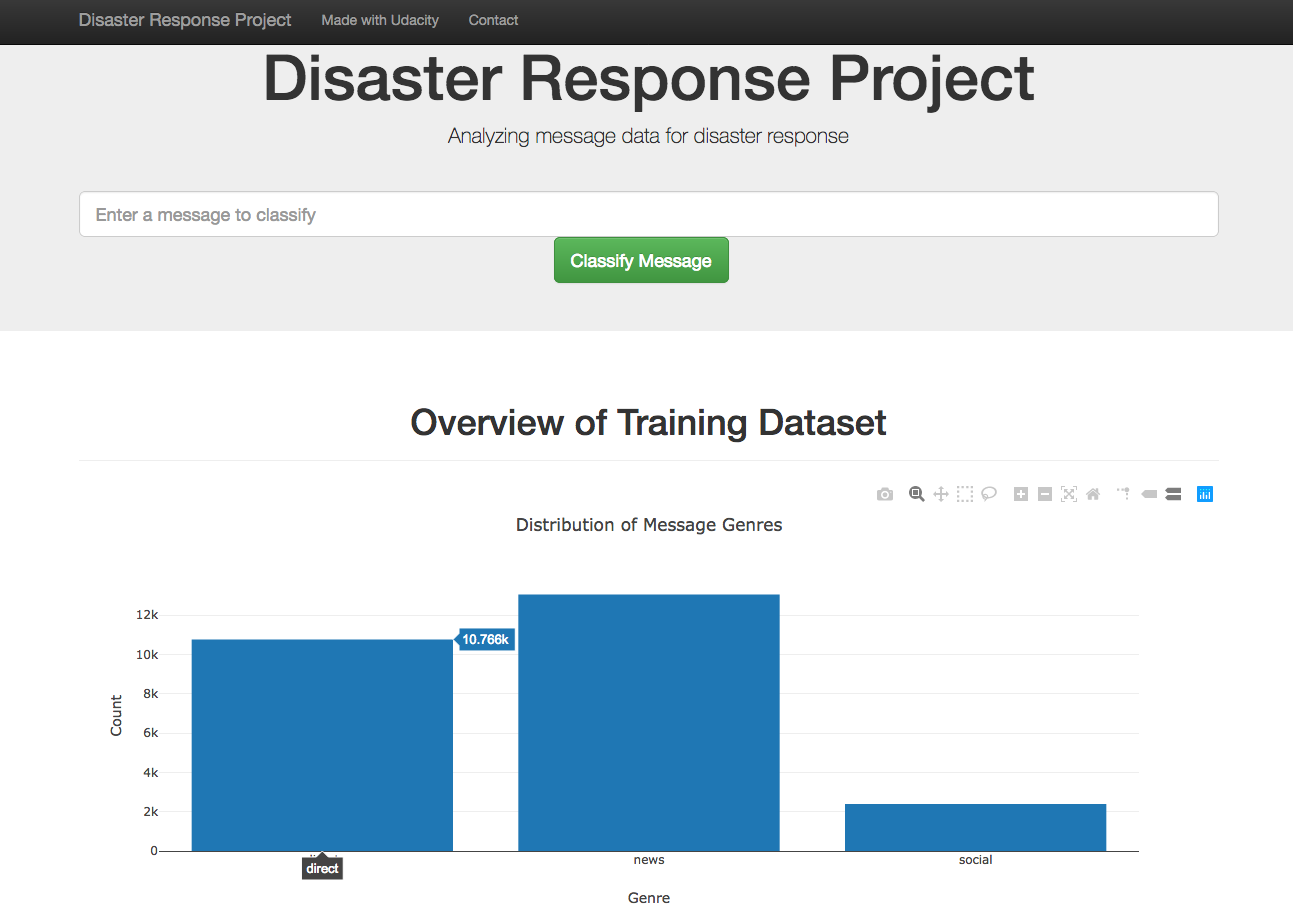
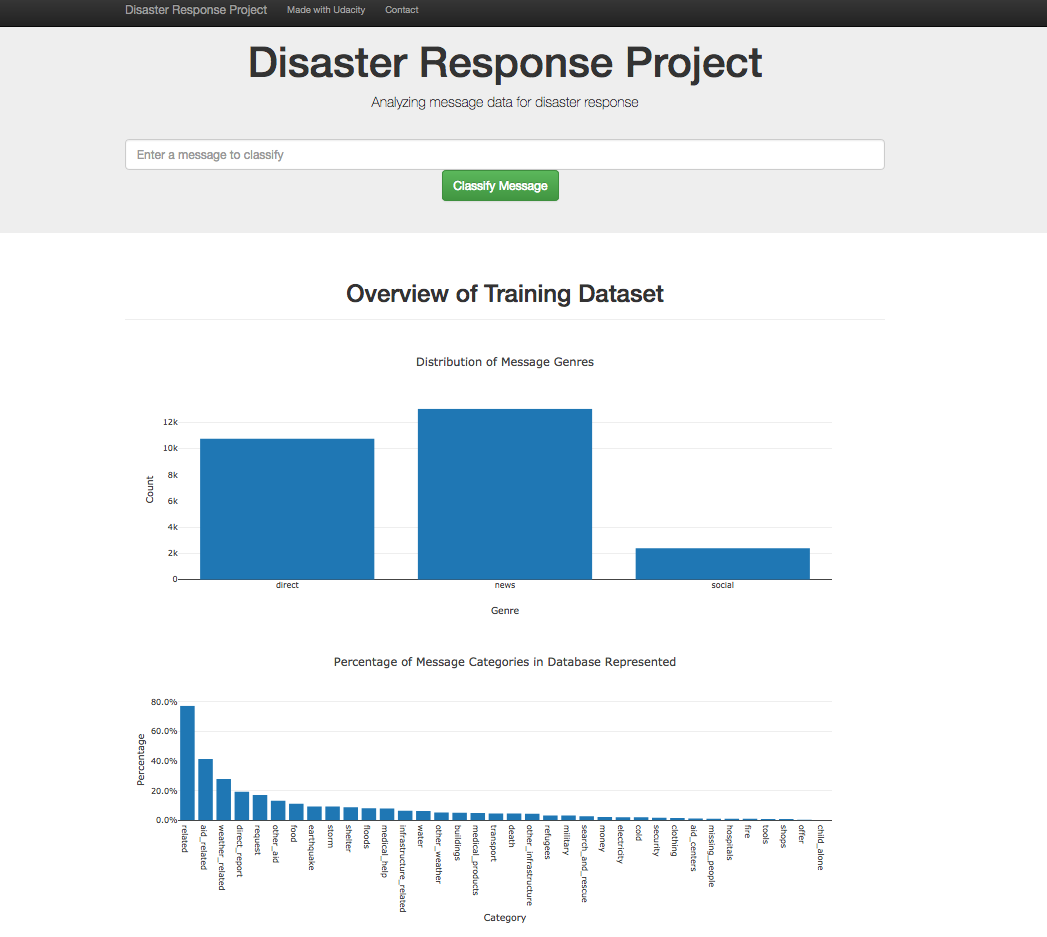
Added two new visuals to the app, new imgs for the README.md

diff --git a/app/templates/go.html b/app/templates/go.html
@@ -1,24 +1,56 @@
 {% extends "master.html" %}
 {% block title %}Results{% endblock %}
+{% block head %}
+  {{ super() }}
+{% endblock %}
+
 
 {% block message %}
     <hr />
     <h4 class="text-center">MESSAGE</h4>
     <p class="text-center"><i>{{query}}</i></p>
+    
 {% endblock %}
 
 {% block content %}
-    <h1 class="text-center">Result</h1>
-        <ul class="list-group">
-            {% for category, classification in classification_result.items() %}
-                {% if classification == 1 %}
-                    <li class="list-group-item list-group-item-success text-center">{{category.replace('_', ' ').title()}}</li>
-                {% else %}
-                    <li class="list-group-item list-group-item-dark text-center">{{category.replace('_', ' ').title()}}</li>
-                {% endif %}
-            {% endfor %}
 
-        </div>
-    </div>
+	<table class="table table-striped">
+	  <tbody>
+	    <tr>
+	      <td width="25%">
+		<ul class="list-group">
+		  {% for category, classification in classification_result.items() %}
+                     {% if classification == 1 %}
+                        <li class="list-group-item list-group-item-success text-center">{{category.replace('_', ' ').title()}}</li>
+                     {% else %}
+
+                        <li class="list-group-item list-group-item-dark text-center">{{category.replace('_', ' ').title()}}</li>
+                     {% endif %}
+                  {% endfor %}
+		</ul>
+	      </td>
+	      <td width="75%"> 
+		   {% for id in ids %}
+		      <div id="{{id}}"></div>
+		   {% endfor %}
+	      </td>
+	    </tr>
+	  </tbody>
+	</table>
+
 
 {% endblock %}
+
+
+
+<script type="text/javascript">
+    const graphs = {{graphJSON | safe}};
+    const ids = {{ids | safe}};
+    for(let i in graphs) {
+        print(i);
+        print(ids[i]);
+        Plotly.plot(ids[i], graphs[i].data, graphs[i].layout);
+    }
+</script>
+
+

diff --git a/app/templates/master.html b/app/templates/master.html
@@ -1,6 +1,7 @@
 <!doctype html>
 <html lang="en">
 <head>
+{% block head %}
     <meta charset="utf-8">
     <meta http-equiv="X-UA-Compatible" content="IE=edge">
     <meta name="viewport" content="width=device-width, initial-scale=1">
@@ -11,6 +12,7 @@
     <link rel="stylesheet" href="https://maxcdn.bootstrapcdn.com/bootstrap/3.3.7/css/bootstrap-theme.min.css" integrity="sha384-rHyoN1iRsVXV4nD0JutlnGaslCJuC7uwjduW9SVrLvRYooPp2bWYgmgJQIXwl/Sp" crossorigin="anonymous">
     <script src="https://ajax.googleapis.com/ajax/libs/jquery/3.3.1/jquery.min.js"></script>
     <script src="https://cdn.plot.ly/plotly-latest.min.js"></script>
+{% endblock %}
 </head>
 
 <body>
@@ -49,6 +51,7 @@
 
         {% block message %}
         {% endblock %}
+
     </div>
 </div>
 
@@ -58,11 +61,14 @@
             <h1 class="text-center">Overview of Training Dataset</h1>
         </div>
     {% endblock %}
-
+    
     {% for id in ids %}
         <div id="{{id}}"></div>
     {% endfor %}
 </div>
+
+
+
 
 <script type="text/javascript">
     const graphs = {{graphJSON | safe}};

diff --git a/app/run.py b/app/run.py
@@ -1,5 +1,6 @@
 import json
 import plotly
+import numpy as np
 import pandas as pd
 import re
 import nltk
@@ -91,6 +92,13 @@ def index():
     genre_counts = df.groupby('genre').count()['message']
     genre_names = list(genre_counts.index)
     
+    ## Data for second visual
+    ## Histogram of categories represented in the DisasterDatabase.db
+    s = np.mean(df.iloc[:, 4:]).sort_values(ascending = False)
+    category_percentage     = list(s) ## percent of category in table
+    category_names          = list(s.keys())
+               
+    
     # create visuals
     # TODO: Below is an example - modify to create your own visuals
     graphs = [
@@ -111,6 +119,31 @@ def index():
                     'title': "Genre"
                 }
             }
+        },
+
+        {
+         
+            'data': [
+                Bar(
+                    x=category_names,
+                    y=category_percentage
+                )
+            ],
+
+            'layout': {
+                'title': 'Percentage of Message Categories in Database Represented',
+                'yaxis': {
+                    'title': "Percentage",
+                    'tickformat':".1%"
+                },
+                'xaxis': {
+                    'title': "Category",
+                    'automargin': True
+                },
+                
+            }
+
+
         }
     ]
     
@@ -128,15 +161,70 @@ def go():
     # save user input in query
     query = request.args.get('query', '') 
 
+    
     # use model to predict classification for query
-    classification_labels = model.predict([query])[0]
+    classification_labels  = model.predict([query])[0]    
     classification_results = dict(zip(df.columns[4:], classification_labels))
 
+    classification_probs   = model.predict_proba([query])
+    
+    classification_probs_results = {}
+    
+    
+    for i in range(0,len(classification_labels)):
+        if (classification_labels[i]==1.):
+            classification_probs_results.update({df.columns[4+i]:classification_probs[i][0][1]})
+    
+    
+    
+    ## Sort dictionary 'classification_probs_results' by values
+    classification_probs_results = {k: v for k, v in sorted(classification_probs_results.items(), key=lambda item: item[1])}
+    
+    classification_names = list(classification_probs_results.keys())
+    classification_probs = list(classification_probs_results.values())
+   
+    
+    ## Build plot of probabilities for categories that were found to be significant
+    ## We plot the probability of getting 1.0 for the category (as opposed to 0.0)
+    ## for significant categories. These are conventionally greater than about 60%
+    graphs = [
+        {
+            'data': [
+                Bar(
+                    x=classification_probs,
+                    y=classification_names,
+                    orientation='h'
+                )
+            ],
+
+            'layout': {
+                'title': 'Classification Probabilities',
+                'yaxis': {
+                    'title': "Category"
+                },
+                'xaxis': {
+                    'title': "Probability",
+                    'tickformat':".1%",
+                    'automargin': True
+                }
+                
+            }
+        }
+    ]
+
+
+    # encode plotly graphs in JSON
+    ids = ["graph-{}".format(i) for i, _ in enumerate(graphs)]
+    graphJSON = json.dumps(graphs, cls=plotly.utils.PlotlyJSONEncoder)
+    
+    
     # This will render the go.html Please see that file. 
     return render_template(
         'go.html',
         query=query,
-        classification_result=classification_results
+        classification_result=classification_results,
+        ids = ids,
+        graphJSON = graphJSON
     )
 
 
